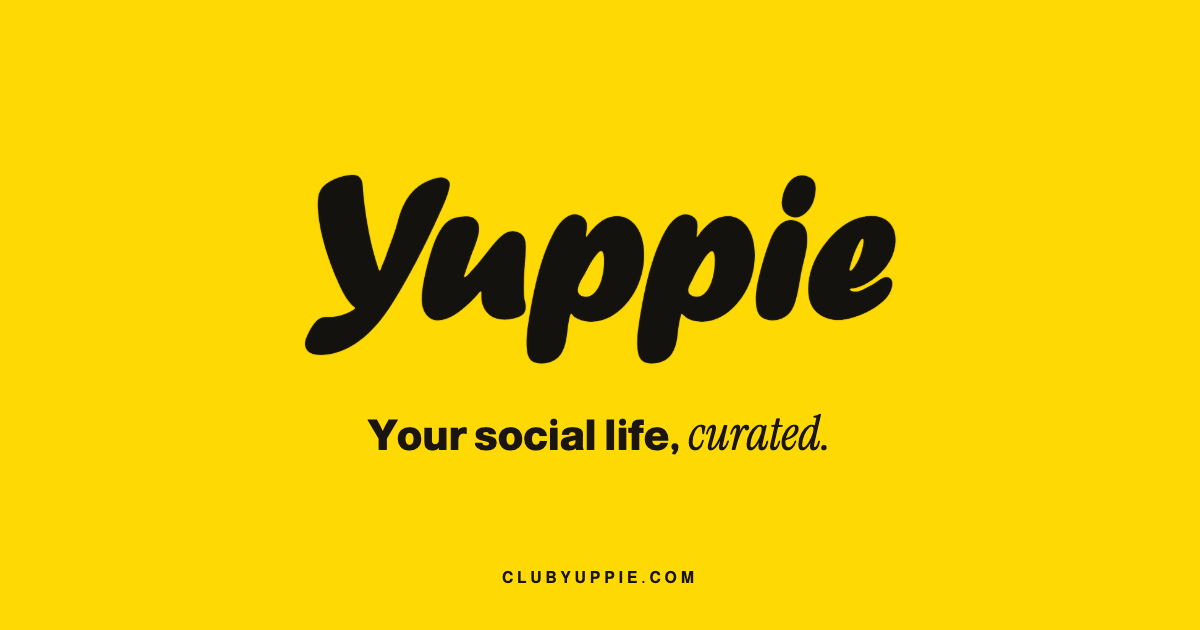
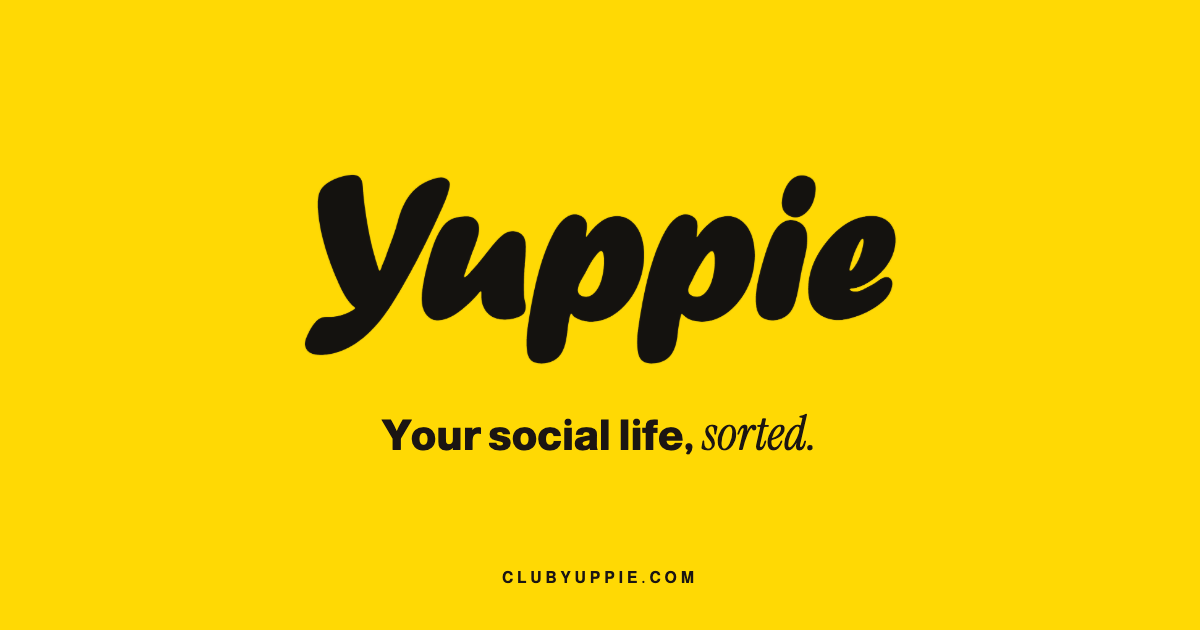
Tagline: Your Social Life, Sorted (titles, share card, alt text, welcome email)

Changed region(s): [[0.3083, 0.6635, 0.7092, 0.7238]]

diff --git a/app/layout.tsx b/app/layout.tsx
@@ -16,10 +16,10 @@ const geistMono = Geist_Mono({
 
 export const metadata: Metadata = {
   metadataBase: new URL("https://clubyuppie.com"),
-  title: "Yuppie - Your Social Life, Curated",
+  title: "Yuppie - Your Social Life, Sorted",
   description: "Curated events, partner discounts and access across London. Apply to join Yuppie, we’ll handle the planning, you just show up.",
   openGraph: {
-    title: "Yuppie - Your Social Life, Curated",
+    title: "Yuppie - Your Social Life, Sorted",
     description: "Curated events, partner discounts and access across London. Apply to join Yuppie, we’ll handle the planning, you just show up.",
     url: "https://clubyuppie.com",
     siteName: "Yuppie",
@@ -29,7 +29,7 @@ export const metadata: Metadata = {
   },
   twitter: {
     card: "summary_large_image",
-    title: "Yuppie - Your Social Life, Curated",
+    title: "Yuppie - Your Social Life, Sorted",
     description: "Curated events, partner discounts and access across London. Apply to join Yuppie, we’ll handle the planning, you just show up.",
     // Share image: app/twitter-image.png (+ .alt.txt).
   },

diff --git a/app/admin/email-template.ts b/app/admin/email-template.ts
@@ -276,7 +276,7 @@ export function renderWelcomeEmailHtml({
             </tr>
             <tr>
               <td align="center" style="padding:24px 0 0;">
-                <a href="${SITE_URL}" class="footer-link" style="font-size:12px;color:#1B1512;text-decoration:none;font-family:${ALMARAI_FONT_STACK};">Yuppie - Your Social Life, Curated</a>
+                <a href="${SITE_URL}" class="footer-link" style="font-size:12px;color:#1B1512;text-decoration:none;font-family:${ALMARAI_FONT_STACK};">Yuppie - Your Social Life, Sorted</a>
               </td>
             </tr>
           </table>
